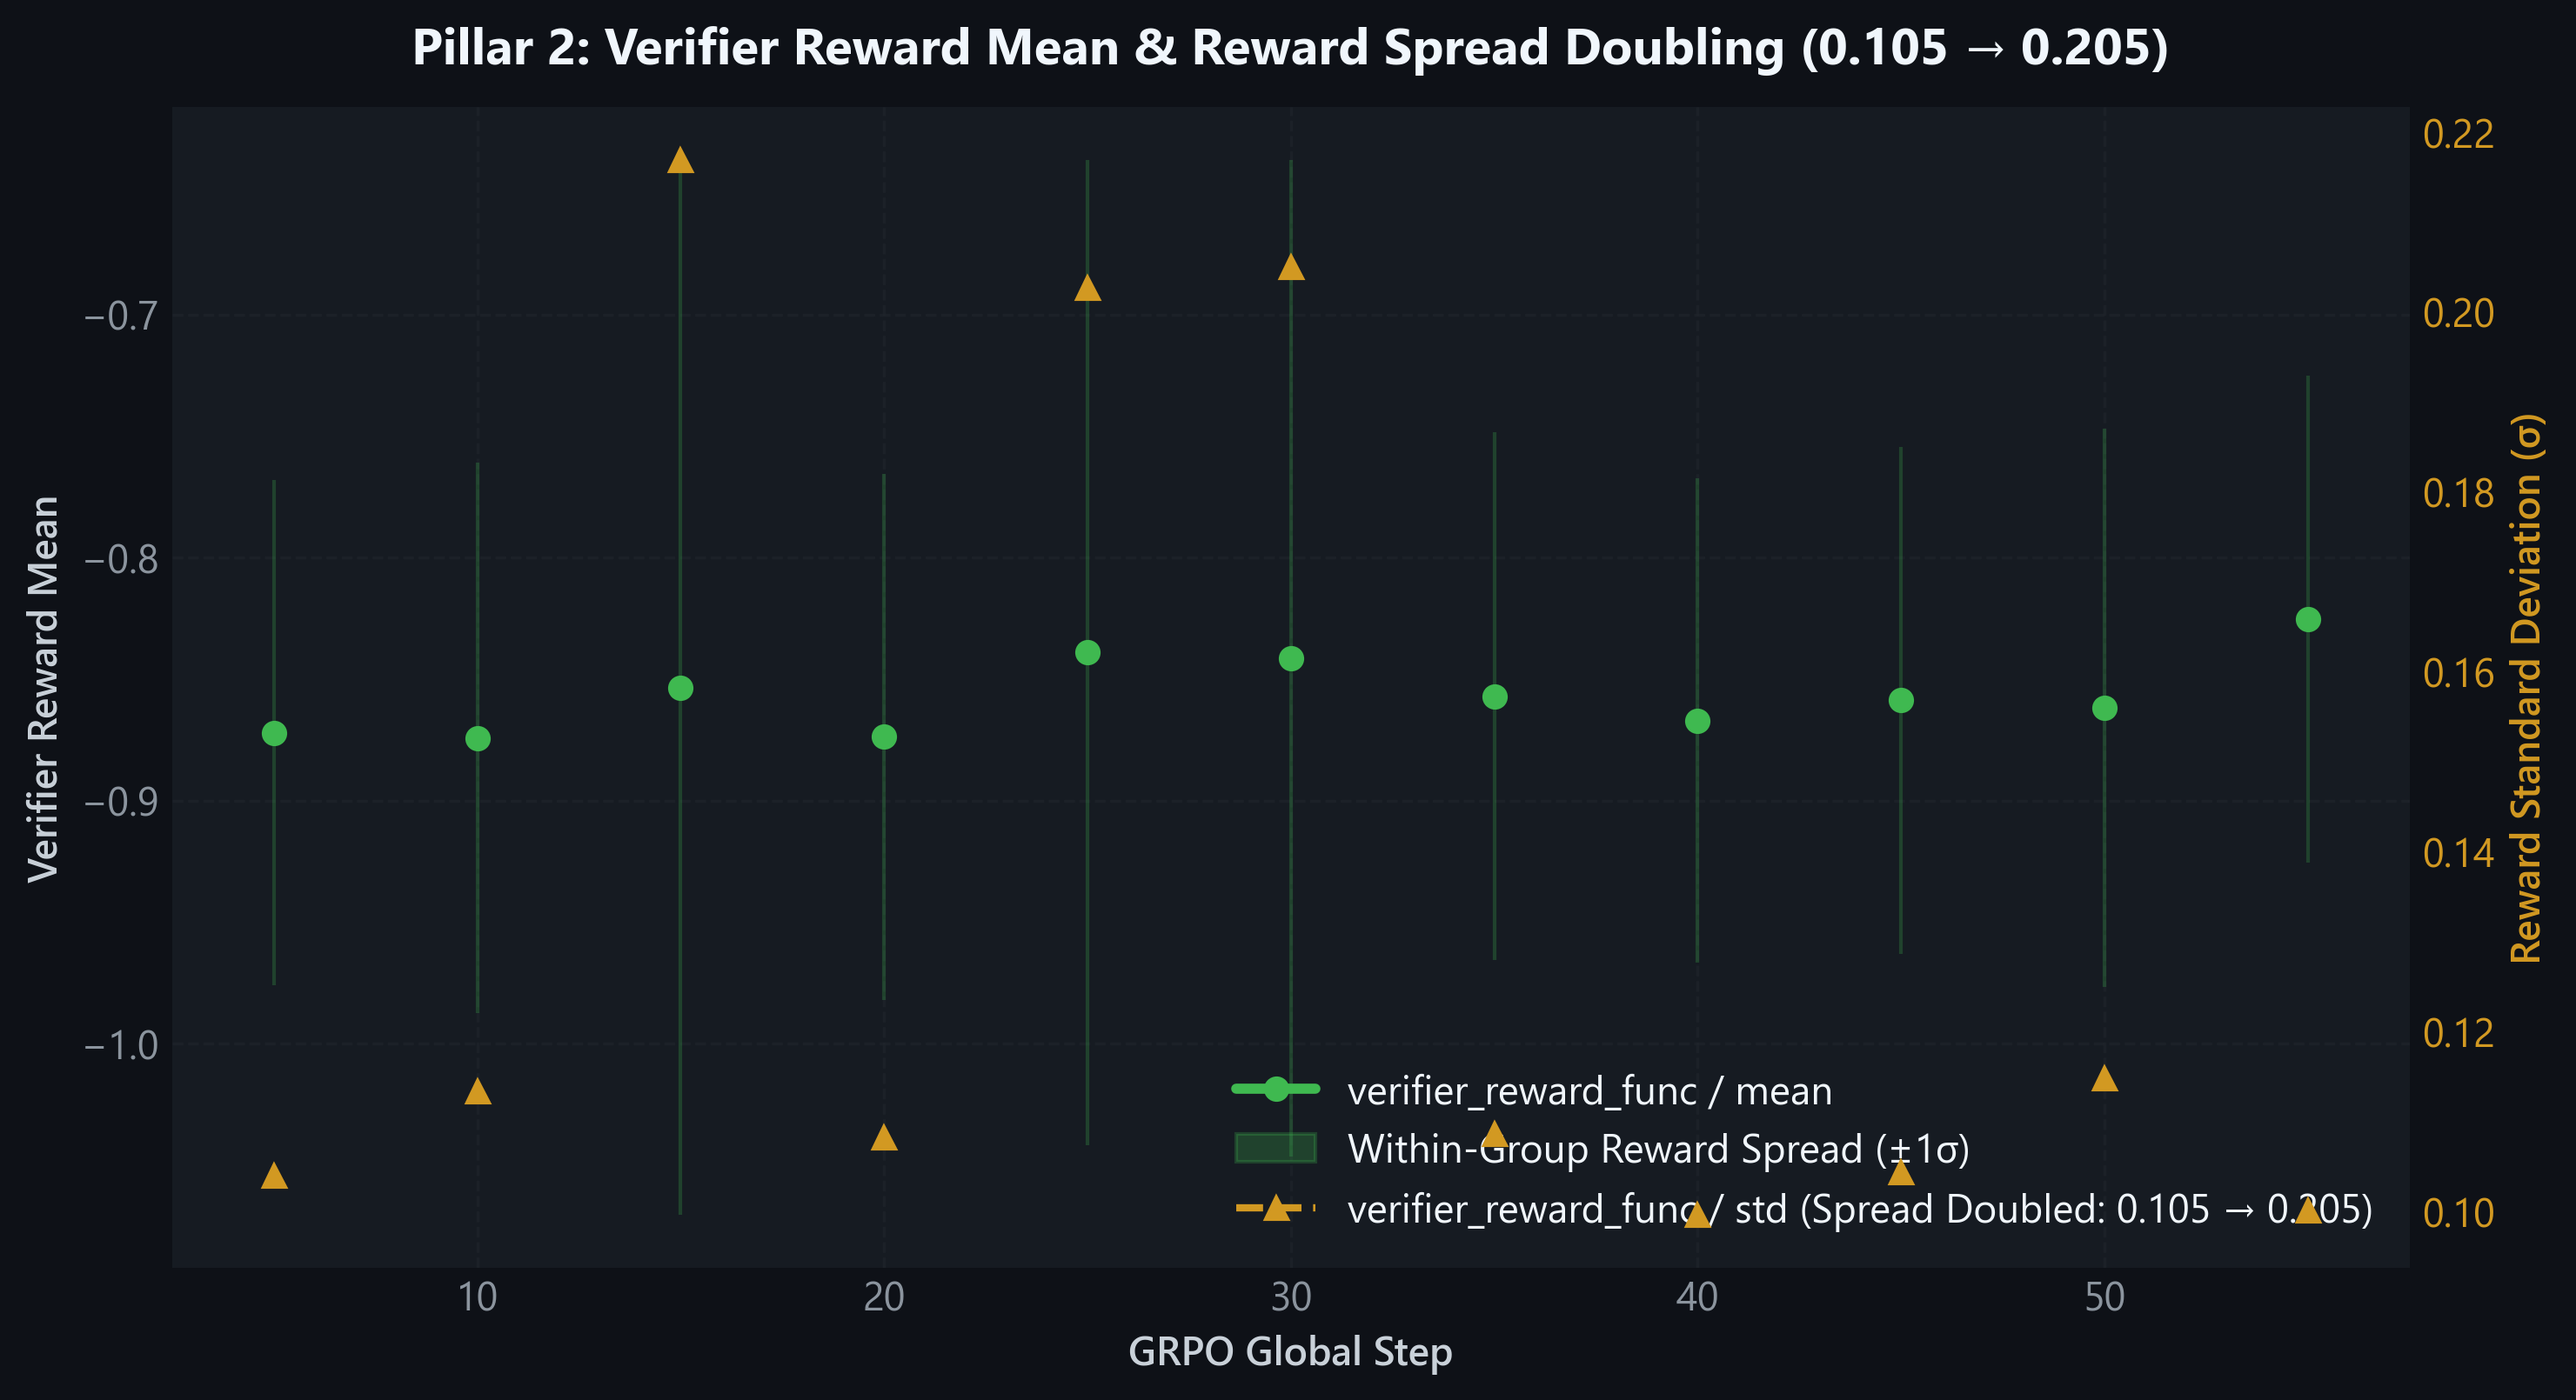
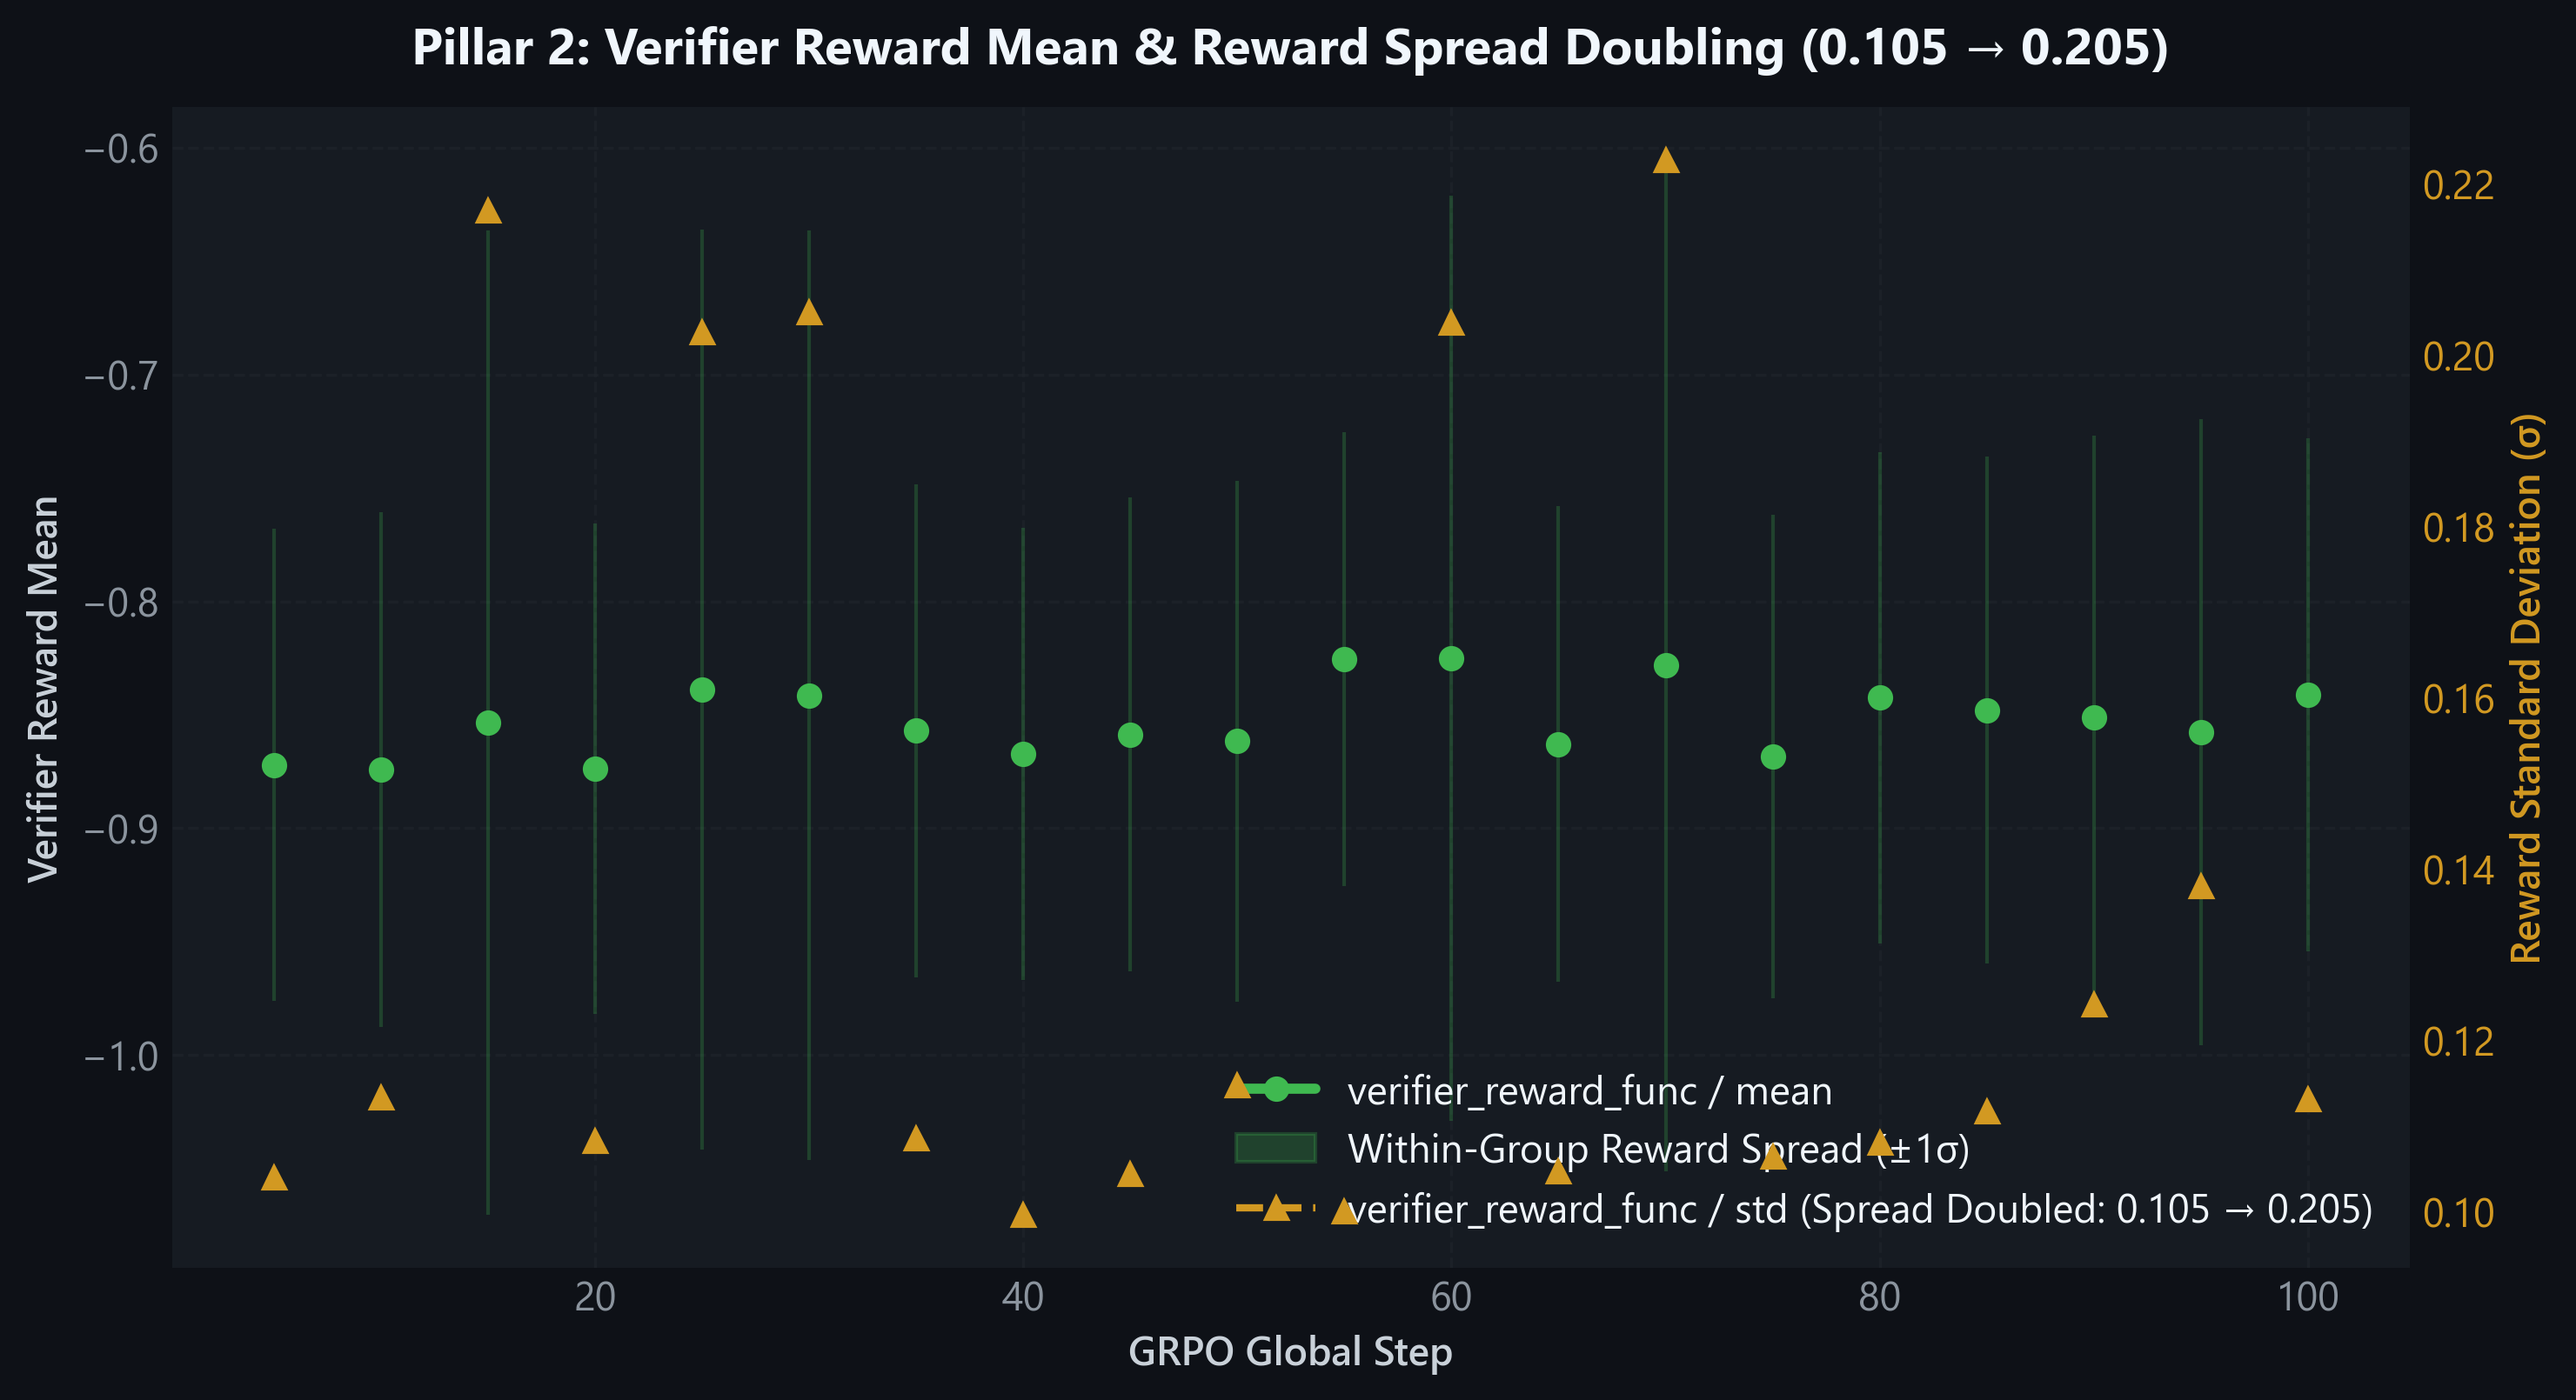
telemetry: update empirical charts and documentation to step 100 (4.47M tokens, 1.33 epochs)

diff --git a/README.md b/README.md
@@ -69,7 +69,7 @@ Evaluated across $N=100$ out-of-distribution crisis scenarios (`--dry_run` basel
 
 ## 3. Empirical Training Telemetry & Systems Profiling (Weights & Biases)
 
-Live telemetry captured from run [`brisk-waterfall-3` (`lja961ve`)](https://wandb.ai/akshaykumarhudedmani-rl/goldenhour-rl/runs/lja961ve) across 50+ GRPO optimization steps on dual Tesla T4 GPUs:
+Live telemetry captured from run [`brisk-waterfall-3` (`lja961ve`)](https://wandb.ai/akshaykumarhudedmani-rl/goldenhour-rl/runs/lja961ve) across 100 GRPO optimization steps (4.47M tokens processed, 1.33 epochs) on dual Tesla T4 GPUs:
 
 ### Pillar 1: Multiprocessing Sandbox vs. Autoregressive Generation (>450x Speedup)
 ![Multiprocessing Sandbox vs Generation](assets/image_f16a0d.png)
